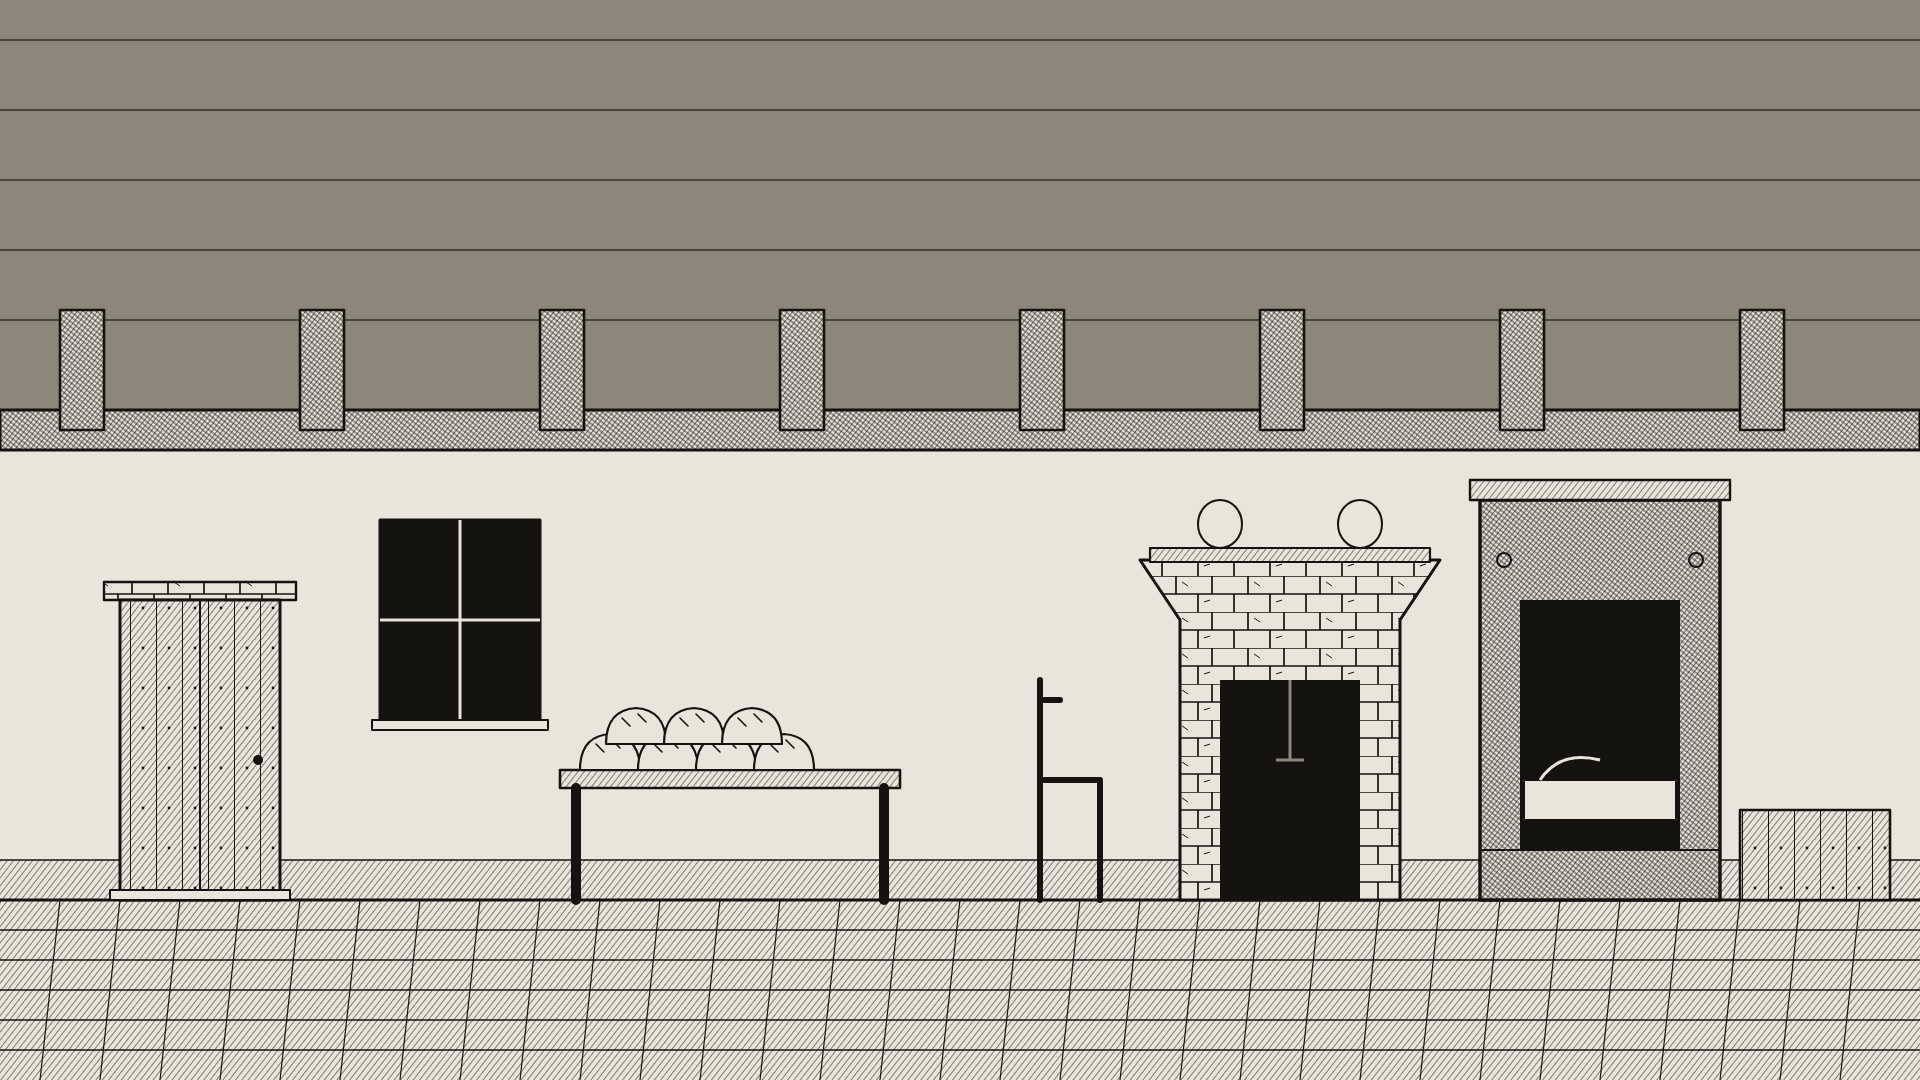
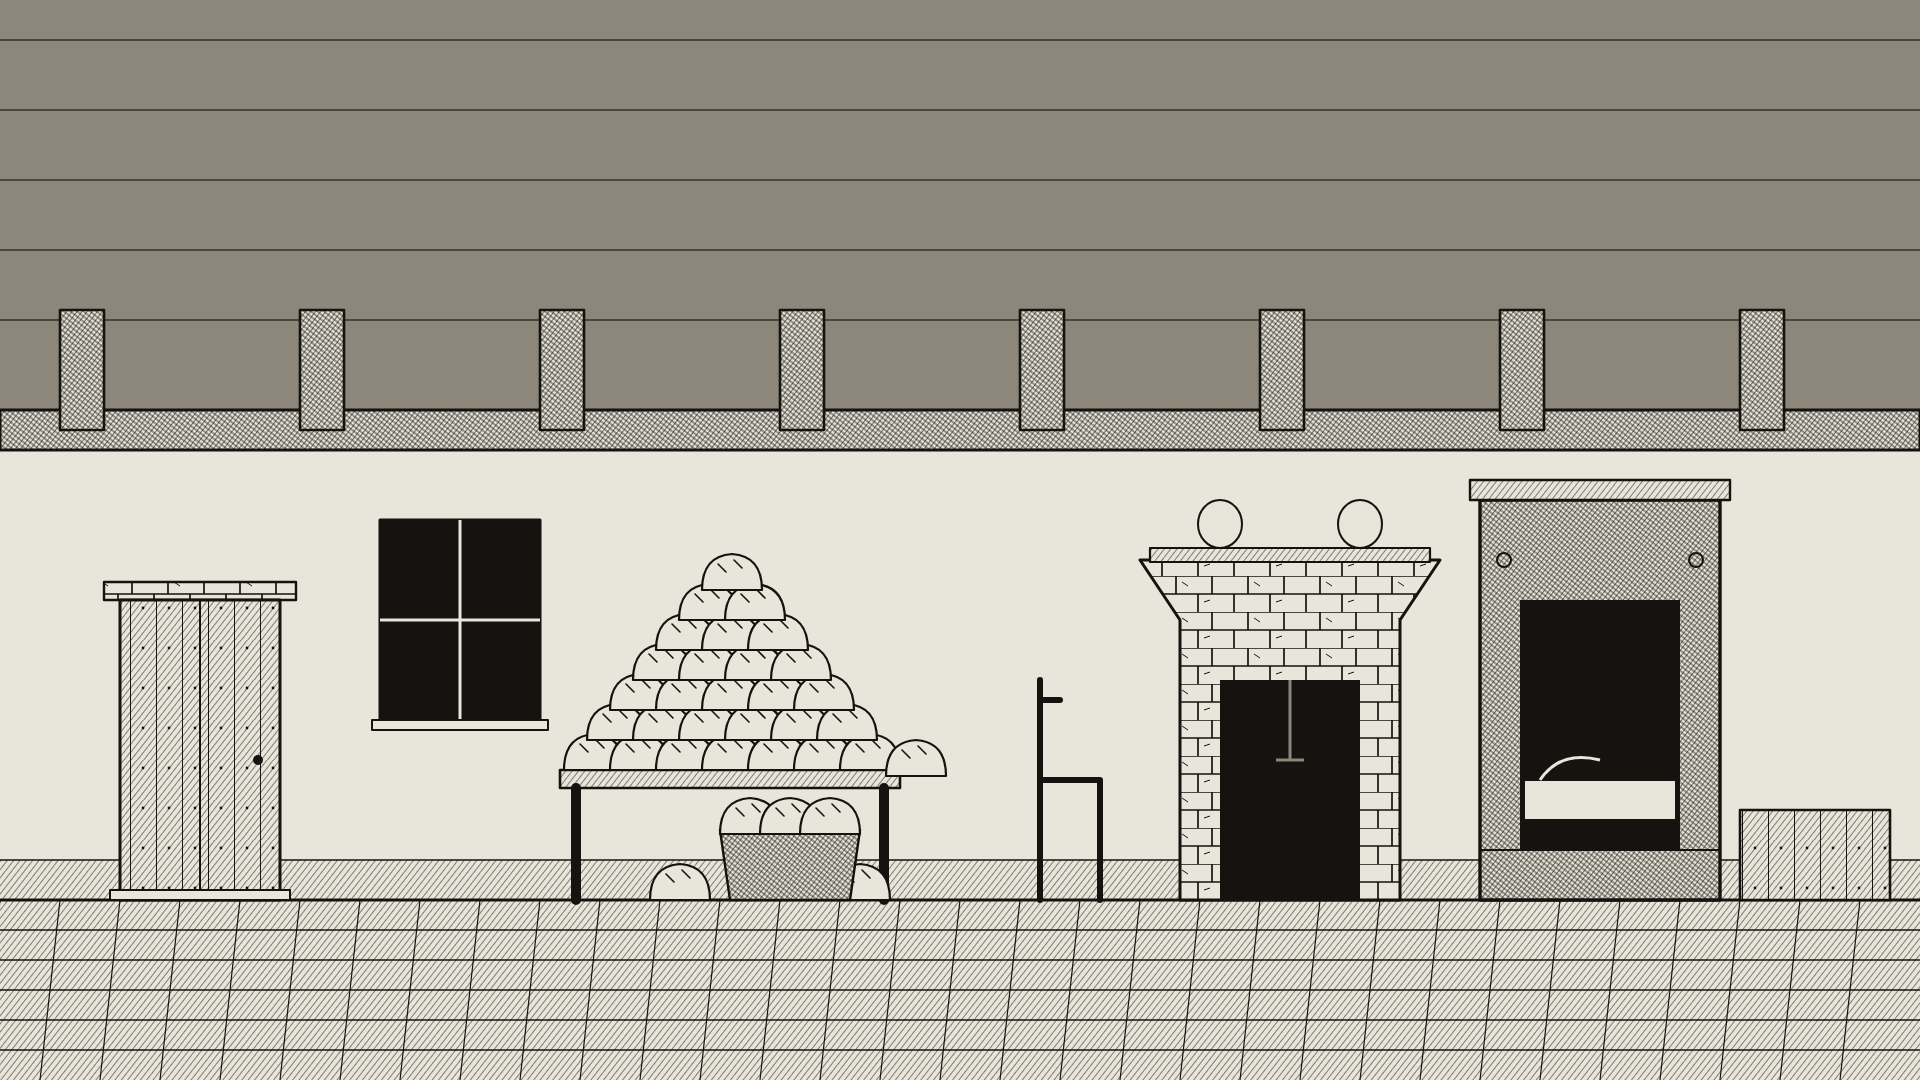
Étape 3 : chemin de nuit en noir de gravure, montagne de pain chez Ilde
Claude-Session: https://claude.ai/code/session_011WbKxBfoJbcyebqrVqkEA5

Changed region(s): [[0.2812, 0.5194, 0.5, 0.7028], [0.3438, 0.7333, 0.4688, 0.8556]]

diff --git a/tools/gen_decors_e3_lieux.py b/tools/gen_decors_e3_lieux.py
@@ -46,14 +46,30 @@ def mur_interieur(w: int) -> str:
     return "".join(out)
 
 
-def pain(x: int, y: int, n: int) -> str:
-    """Miches de pain blanc, en papier nu : il y en a trop pour une femme seule (ilde_pain)."""
+def miche(px: float, py: float) -> str:
+    return (f'<path d="M{px - 30:.0f} {py:.0f} Q{px - 30:.0f} {py - 34:.0f} {px:.0f} {py - 36:.0f} Q{px + 30:.0f} {py - 34:.0f} {px + 30:.0f} {py:.0f} Z" fill="{PAPIER}" {ST} stroke-width="2.2"/>'
+            f'<path d="M{px - 14:.0f} {py - 26:.0f} L{px - 6:.0f} {py - 18:.0f} M{px + 2:.0f} {py - 30:.0f} L{px + 10:.0f} {py - 22:.0f}" {ST} stroke-width="1.6"/>')
+
+
+def pain(x0: int, x1: int, y: int) -> str:
+    """Une montagne de miches de pain blanc, en papier nu, qui déborde de la table et roule au sol :
+    beaucoup trop pour une femme seule (ilde_pain)."""
     out = []
-    for i in range(n):
-        px = x + (i % 4) * 58 + (i // 4) * 26
-        py = y - (i // 4) * 26
-        out.append(f'<path d="M{px - 30} {py} Q{px - 30} {py - 34} {px} {py - 36} Q{px + 30} {py - 34} {px + 30} {py} Z" fill="{PAPIER}" {ST} stroke-width="2.2"/>')
-        out.append(f'<path d="M{px - 14} {py - 26} L{px - 6} {py - 18} M{px + 2} {py - 30} L{px + 10} {py - 22}" {ST} stroke-width="1.6"/>')
+    larg = x1 - x0
+    rangs = 7
+    for rg in range(rangs):
+        n = 7 - rg
+        pas = larg / 7.4
+        dx = x0 + 34 + rg * pas / 2
+        for i in range(n):
+            out.append(miche(dx + i * pas, y - rg * 30))
+    # celles qui ont roulé : au bord, au sol, et une corbeille pleine sous la table
+    out.append(miche(x1 + 16, y + 6))
+    out.append(miche(x0 + 120, SOL))
+    out.append(miche(x1 - 40, SOL))
+    out.append(f'<path d="M{x0 + 170} {SOL} L{x0 + 160} {SOL - 70} H{x0 + 300} L{x0 + 290} {SOL} Z" fill="url(#h2)" {ST} stroke-width="2.4"/>')
+    for i in range(3):
+        out.append(miche(x0 + 190 + i * 40, SOL - 66))
     return "".join(out)
 
 
@@ -72,7 +88,7 @@ def maison_ilde() -> str:
                f'<rect x="372" y="720" width="176" height="10" fill="{PAPIER}" {ST} stroke-width="2"/>')
     # la table et le pain blanc
     out.append(table(560, 900))
-    out.append(pain(610, SOL - 130, 7))
+    out.append(pain(560, 900, SOL - 130))
     # l'âtre : hotte de pierre, feu éteint, crémaillère
     out.append(f'<path d="M1180 {SOL} V620 L1140 560 H1440 L1400 620 V{SOL} Z" fill="url(#moellons)" {ST} stroke-width="3"/>')
     out.append(f'<path d="M1220 {SOL} V680 H1360 V{SOL} Z" fill="{ENCRE}"/>')
@@ -170,7 +186,11 @@ def cierge(x: int, haut: int, allume: bool) -> str:
 
 
 def chemin(allume: bool) -> str:
-    """Le chemin des champs derrière la maison d'Ilde : talus, haie, champs plantés de cierges."""
+    """Le chemin des champs derrière la maison d'Ilde : talus, champs plantés de cierges.
+    La nuit est un vrai noir de gravure (contre-hachure dense) : les flammes des cierges, en
+    réserve de papier, sont les seuls points clairs. L'aube reprend le papier."""
+    if allume:
+        return chemin_nuit()
     w = 3840
     out = [f'<rect width="{w}" height="{H}" fill="{PAPIER}"/>']
     r = rnd(371)
@@ -178,34 +198,70 @@ def chemin(allume: bool) -> str:
         y = r.randint(40, 300)
         x = r.randint(-200, w)
         out.append(f'<path d="M{x} {y} H{x + r.randint(300, 800)}" stroke="{MINE}" stroke-width="1.4" opacity=".6"/>')
-    if allume:
-        out.append(f'<path d="M3000 150 A60 60 0 1 0 3000 270 A44 52 0 1 1 3000 150 Z" fill="none" stroke="{MINE}" stroke-width="2.6"/>')
-    else:
-        out.append(f'<path d="M2640 520 A90 90 0 0 1 2820 520" fill="none" stroke="{MINE}" stroke-width="2.6"/>')
-    # champs lointains en lavis, le clocher du village tout petit derrière (baie vide)
+    out.append(f'<path d="M2640 520 A90 90 0 0 1 2820 520" fill="none" stroke="{MINE}" stroke-width="2.6"/>')
+    # champs lointains, le clocher du village tout petit derrière (baie vide)
     out.append(f'<path d="M{crete(0, w, 520, 8, 160, 372)} L{w} {H} L0 {H} Z" fill="{MINE}"/>')
     out.append(f'<path d="M300 520 V420 L320 396 L340 420 V520 Z" fill="{MINE}"/><rect x="312" y="430" width="16" height="20" fill="{PAPIER}"/>')
     out.append(f'<path d="M{crete(0, w, 640, 10, 120, 373)} L{w} {H} L0 {H} Z" fill="{LAVIS}"/>')
-    # rangées de cierges dans les champs lointains (petits) puis au bord du chemin
     for y, pas, haut, ep in ((640, 70, 22, 4), (700, 90, 34, 6)):
         x = r.randint(20, 60)
         while x < w:
             out.append(f'<rect x="{x}" y="{y - haut}" width="{ep}" height="{haut}" fill="{PAPIER}"/>')
-            if allume:
-                out.append(f'<path d="M{x + ep / 2:.0f} {y - haut - 2} Q{x - 2} {y - haut - 8} {x + ep / 2:.0f} {y - haut - 16} Q{x + ep + 2} {y - haut - 8} {x + ep / 2:.0f} {y - haut - 2} Z" fill="{PAPIER}"/>')
             x += pas + r.randint(-20, 20)
-    # talus et haie basse côté plafond de collision : le chemin est encaissé
     out.append(f'<path d="M0 {SOL} V{SOL - 40} Q{w / 2:.0f} {SOL - 70} {w} {SOL - 40} V{SOL} Z" fill="url(#herbe)" {ST} stroke-width="2"/>')
-    # cierges du bord du chemin, à hauteur de Tobie (détail champs_cierges à x 1800)
     x = 140
     while x < w:
         if abs(x - 1800) > 60:
-            out.append(cierge(x, r.randint(110, 170), allume))
+            out.append(cierge(x, r.randint(110, 170), False))
         x += r.randint(220, 380)
-    out.append(cierge(1800, 190, allume))
+    out.append(cierge(1800, 190, False))
     out.append(f'<rect y="{SOL}" width="{w}" height="{H - SOL}" fill="url(#terre)"/><path d="M0 {SOL} H{w}" {ST} stroke-width="3"/>')
-    # au bout du chemin, la route (e3_route, x 3500) : une borne et deux ornières
     out.append(f'<path d="M3440 {SOL} V{SOL - 70} Q3470 {SOL - 96} 3500 {SOL - 70} V{SOL} Z" fill="url(#moellons)" {ST} stroke-width="2.4"/>')
+    return "".join(out)
+
+
+def flamme(x: float, y: float, h: float, cerne: bool = True) -> str:
+    """Flamme en papier nu, pointe en haut ; y est la mèche."""
+    trait = f' {ST} stroke-width="1.6"' if cerne else ""
+    return (f'<path d="M{x:.0f} {y:.0f} Q{x - h * .24:.0f} {y - h * .45:.0f} {x:.0f} {y - h:.0f} '
+            f'Q{x + h * .24:.0f} {y - h * .45:.0f} {x:.0f} {y:.0f} Z" fill="{PAPIER}"{trait}/>')
+
+
+def chemin_nuit() -> str:
+    w = 3840
+    r = rnd(371)
+    # le ciel : lavis sous une contre-hachure d'encre serrée, un noir de gravure
+    out = [f'<rect width="{w}" height="{H}" fill="{LAVIS}"/>',
+           f'<rect width="{w}" height="{H}" fill="url(#v2)"/>']
+    # lointain : lavis puis encre, le clocher du village en silhouette sans jour
+    out.append(f'<path d="M{crete(0, w, 520, 8, 160, 372)} L{w} {H} L0 {H} Z" fill="{LAVIS}"/>')
+    out.append(f'<path d="M300 520 V420 L320 396 L340 420 V520 Z" fill="{LAVIS}"/>')
+    out.append(f'<path d="M{crete(0, w, 640, 10, 120, 373)} L{w} {H} L0 {H} Z" fill="{ENCRE}"/>')
+    # cierges des champs : le corps se perd dans le noir, seules les flammes restent
+    for y, pas, h in ((640, 70, 12), (700, 90, 18)):
+        x = r.randint(20, 60)
+        while x < w:
+            out.append(f'<rect x="{x - 1}" y="{y - h * 1.6:.0f}" width="{2 + h // 8}" height="{h * 1.6:.0f}" fill="{LAVIS}"/>')
+            out.append(flamme(x, y - h * 1.6, h, cerne=False))
+            x += pas + r.randint(-20, 20)
+    # talus en silhouette
+    out.append(f'<path d="M0 {SOL} V{SOL - 40} Q{w / 2:.0f} {SOL - 70} {w} {SOL - 40} V{SOL} Z" fill="{ENCRE}"/>')
+    # cierges du bord du chemin : une réserve de papier autour de chaque flamme, nette
+    x = 140
+    while x < w:
+        haut = 190 if abs(x - 1800) <= 60 else r.randint(110, 170)
+        if abs(x - 1800) <= 60:
+            x = 1800
+        out.append(f'<circle cx="{x}" cy="{SOL - haut - 16}" r="30" fill="{PAPIER}"/>')
+        out.append(f'<rect x="{x - 8}" y="{SOL - haut}" width="16" height="{haut}" fill="{MINE}" {ST} stroke-width="1.8"/>')
+        out.append(flamme(x, SOL - haut - 3, 36))
+        out.append(f'<path d="M{x} {SOL - haut - 3} V{SOL - haut + 4}" {ST} stroke-width="1.6"/>')
+        x += r.randint(220, 380)
+    # le sol du chemin, sombre
+    out.append(f'<rect y="{SOL}" width="{w}" height="{H - SOL}" fill="{LAVIS}"/>')
+    out.append(f'<rect y="{SOL}" width="{w}" height="{H - SOL}" fill="url(#v1)"/>')
+    out.append(f'<path d="M0 {SOL} H{w}" stroke="{ENCRE}" stroke-width="3"/>')
+    out.append(f'<path d="M3440 {SOL} V{SOL - 70} Q3470 {SOL - 96} 3500 {SOL - 70} V{SOL} Z" fill="{ENCRE}"/>')
     return "".join(out)
 
 
